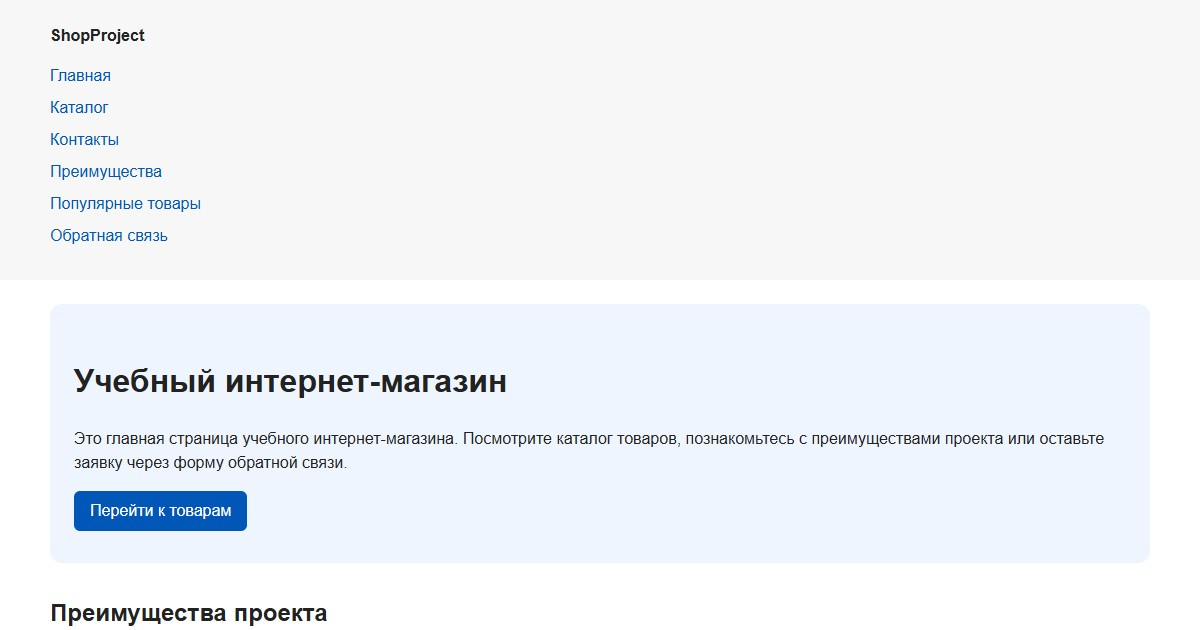
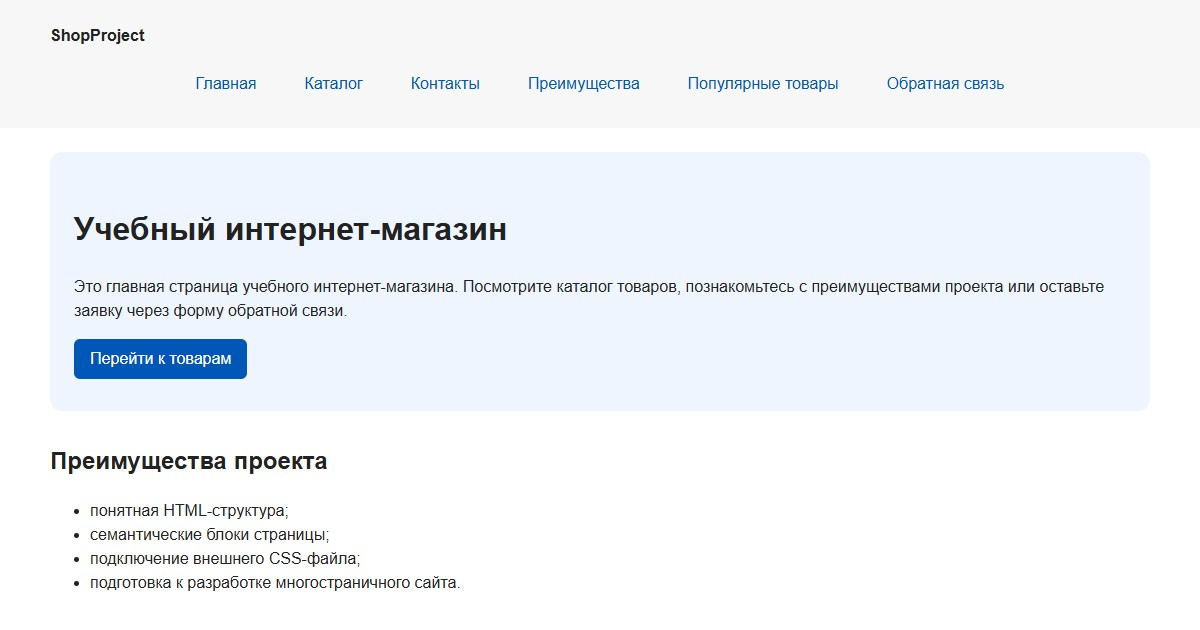
feat: add flex navigation and grid catalog layout

diff --git a/catalog.html b/catalog.html
@@ -41,34 +41,75 @@
       <h1>Каталог товаров</h1>
       <p>
         На этой странице представлен учебный каталог товаров.
-        В дальнейшем здесь будут добавлены фильтры, сортировка и более
-        подробные карточки.
+        Слева расположена учебная форма фильтров, справа — товары.
+        Работа фильтрации и сортировки будет реализована позднее.
       </p>
     </section>
 
-    <section class="section">
-      <h2>Список товаров</h2>
+    <section class="catalog-layout">
+      <aside class="catalog-filters">
+        <h2>Фильтры</h2>
 
-      <article class="product-card">
-        <h3>Товар 1</h3>
-        <p>Краткое описание учебного товара.</p>
-        <p>Цена: 1000 руб.</p>
-        <a class="button" href="index.html#popular">Подробнее</a>
-      </article>
+        <form class="filters-form" action="#" method="get">
+          <fieldset>
+            <legend>Категория</legend>
 
-      <article class="product-card">
-        <h3>Товар 2</h3>
-        <p>Краткое описание учебного товара.</p>
-        <p>Цена: 1500 руб.</p>
-        <a class="button" href="index.html#popular">Подробнее</a>
-      </article>
+            <label>
+              <input type="checkbox" name="category" value="all">
+              Все товары
+            </label>
 
-      <article class="product-card">
-        <h3>Товар 3</h3>
-        <p>Краткое описание учебного товара.</p>
-        <p>Цена: 2000 руб.</p>
-        <a class="button" href="index.html#popular">Подробнее</a>
-      </article>
+            <label>
+              <input type="checkbox" name="category" value="popular">
+              Популярные
+            </label>
+
+            <label>
+              <input type="checkbox" name="category" value="new">
+              Новинки
+            </label>
+          </fieldset>
+
+          <fieldset>
+            <legend>Цена</legend>
+
+            <label for="price-from">От</label>
+            <input id="price-from" name="price-from" type="number" min="0" placeholder="0">
+
+            <label for="price-to">До</label>
+            <input id="price-to" name="price-to" type="number" min="0" placeholder="5000">
+          </fieldset>
+
+          <button class="button" type="submit">Применить</button>
+        </form>
+      </aside>
+
+      <section class="catalog-products">
+        <h2>Список товаров</h2>
+
+        <div class="products-grid">
+          <article class="product-card">
+            <h3>Товар 1</h3>
+            <p>Краткое описание учебного товара.</p>
+            <p>Цена: 1000 руб.</p>
+            <a class="button" href="index.html#popular">Подробнее</a>
+          </article>
+
+          <article class="product-card">
+            <h3>Товар 2</h3>
+            <p>Краткое описание учебного товара.</p>
+            <p>Цена: 1500 руб.</p>
+            <a class="button" href="index.html#popular">Подробнее</a>
+          </article>
+
+          <article class="product-card">
+            <h3>Товар 3</h3>
+            <p>Краткое описание учебного товара.</p>
+            <p>Цена: 2000 руб.</p>
+            <a class="button" href="index.html#popular">Подробнее</a>
+          </article>
+        </div>
+      </section>
     </section>
   </main>
 

diff --git a/index.html b/index.html
@@ -58,39 +58,41 @@
     <section class="section" id="popular">
       <h2>Популярные товары</h2>
 
-      <article class="product-card">
-        <h3>Товар 1</h3>
-        <p>Краткое описание учебного товара.</p>
-        <p>Цена: 1000 руб.</p>
-        <button class="button product-card__button" type="button" data-product="Товар 1">
-          Заказать
-        </button>
-      </article>
+      <div class="products-grid">
+        <article class="product-card">
+          <h3>Товар 1</h3>
+          <p>Краткое описание учебного товара.</p>
+          <p>Цена: 1000 руб.</p>
+          <button class="button product-card__button" type="button" data-product="Товар 1">
+            Заказать
+          </button>
+        </article>
 
-      <article class="product-card">
-        <h3>Товар 2</h3>
-        <p>Краткое описание учебного товара.</p>
-        <p>Цена: 1500 руб.</p>
-        <button class="button product-card__button" type="button" data-product="Товар 2">
-          Заказать
-        </button>
-      </article>
+        <article class="product-card">
+          <h3>Товар 2</h3>
+          <p>Краткое описание учебного товара.</p>
+          <p>Цена: 1500 руб.</p>
+          <button class="button product-card__button" type="button" data-product="Товар 2">
+            Заказать
+          </button>
+        </article>
 
-      <article class="product-card">
-        <h3>Товар 3</h3>
-        <p>Краткое описание учебного товара.</p>
-        <p>Цена: 2000 руб.</p>
-        <button class="button product-card__button" type="button" data-product="Товар 3">
-          Заказать
-        </button>
-      </article>
+        <article class="product-card">
+          <h3>Товар 3</h3>
+          <p>Краткое описание учебного товара.</p>
+          <p>Цена: 2000 руб.</p>
+          <button class="button product-card__button" type="button" data-product="Товар 3">
+            Заказать
+          </button>
+        </article>
+      </div>
     </section>
 
     <aside class="aside-info">
       <h2>Информация для студентов</h2>
       <p>
         На следующих практических занятиях этот проект будет расширяться:
-        будут доработаны карточки товаров, добавлены Flex/Grid,
+        будут доработаны карточки товаров, добавлены
         БЭМ-структура и адаптивная версия сайта.
       </p>
     </aside>

diff --git a/css/style.css b/css/style.css
@@ -174,26 +174,39 @@ a:focus-visible {
 }
 
 .site-nav__list {
+  display: flex;
+  flex-wrap: wrap;
+  justify-content: center;
+  align-items: center;
+  gap: var(--space-md);
   padding: 0;
   margin: var(--space-md) 0 0;
   list-style: none;
 }
 
 .site-nav__list li {
-  margin-bottom: var(--space-sm);
+  margin: 0;
 }
 
 .site-nav__list a {
+  display: inline-block;
+  padding: var(--space-sm) var(--space-md);
+  color: var(--color-primary);
   text-decoration: none;
+  border-radius: var(--radius-sm);
 }
 
 .site-nav__list a:hover {
-  text-decoration: underline;
+  color: var(--color-white);
+  background-color: var(--color-primary);
 }
 
 
 .product-card {
-  margin-bottom: var(--space-md);
+  display: flex;
+  flex-direction: column;
+  gap: var(--space-sm);
+  margin-bottom: 0;
   padding: var(--space-md);
   border: 1px solid var(--color-border);
   border-radius: var(--radius-md);
@@ -204,8 +217,71 @@ a:focus-visible {
   border-color: var(--color-primary);
 }
 
-.product-card h3 {
-  margin-top: 0;
+.product-card h3,
+.product-card p {
+  margin: 0;
+}
+
+.products-grid {
+  display: grid;
+  grid-template-columns: repeat(3, 1fr);
+  gap: var(--space-lg);
+}
+
+.product-card .button {
+  margin-top: auto;
+  align-self: flex-start;
+}
+
+.catalog-layout {
+  max-width: var(--container-width);
+  margin: 0 auto var(--space-xl);
+  display: grid;
+  grid-template-columns: 260px 1fr;
+  grid-template-areas: "filters products";
+  gap: var(--space-lg);
+}
+
+.catalog-filters {
+  grid-area: filters;
+  padding: var(--space-md);
+  border: 1px solid var(--color-border);
+  border-radius: var(--radius-md);
+  background-color: var(--color-surface);
+}
+
+.catalog-products {
+  grid-area: products;
+}
+
+.filters-form {
+  display: grid;
+  gap: var(--space-md);
+}
+
+.filters-form fieldset {
+  min-width: 0;
+  margin: 0;
+  padding: var(--space-md);
+  border: 1px solid var(--color-border);
+  border-radius: var(--radius-sm);
+}
+
+.filters-form legend {
+  font-weight: 700;
+}
+
+.filters-form label {
+  display: block;
+  margin-bottom: var(--space-sm);
+}
+
+.filters-form input[type="number"] {
+  width: 100%;
+  padding: 8px 10px;
+  border: 1px solid var(--color-border);
+  border-radius: var(--radius-sm);
+  font: inherit;
 }
 
 .aside-info {

diff --git a/README.md b/README.md
@@ -31,7 +31,7 @@
 
 ## Текущий статус
 
-Создан многостраничный сайт: главная, каталог и контакты. Используются единое меню, якоря, хлебные крошки, форма заявки и общие стили. Работа №5 выполнена в ветке `feature/multi-page-navigation`.
+Создан многостраничный сайт: главная, каталог и контакты. Используются единое меню, якоря, хлебные крошки, форма заявки и общие стили. Меню и карточки используют Flexbox, сетка товаров и каталог — CSS Grid. Работа №6 выполнена в ветке `feature/flex-grid-navigation`.
 
 ## Ссылка на опубликованный проект
 
@@ -65,6 +65,7 @@ GitHub Pages: https://zhegly.github.io/front_backend_MIREA/
 - Практическая работа 3: добавлена форма заявки, модальное окно и базовая валидация.
 - Практическая работа 4: добавлены CSS-переменные, состояния интерфейса и упорядочена структура стилей.
 - Практическая работа 5: создана многостраничная структура сайта, добавлены единая навигация и якорные ссылки.
+- Практическая работа 6: добавлены Flexbox-навигация и Grid-раскладка карточек и каталога.
 
 Локальная папка проекта: `kr1-html-css-shop`. Репозиторий GitHub: [ZheglY/front_backend_MIREA](https://github.com/ZheglY/front_backend_MIREA).
 
@@ -101,3 +102,12 @@ GitHub Pages: https://zhegly.github.io/front_backend_MIREA/
 ## Навигация
 
 Меню одинаково на всех страницах. Ссылки на преимущества, популярные товары и обратную связь ведут к `index.html#advantages`, `index.html#popular` и `index.html#contacts`. Ссылка «Перейти к форме» на странице контактов приводит к кнопке открытия модального окна на главной. На внутренних страницах добавлены хлебные крошки. Контактные данные демонстрационные.
+
+## Использование Flexbox и Grid
+
+- Flexbox для основного меню: перенос, выравнивание по центру и gap.
+- Flexbox для внутренней структуры карточек: вертикальная раскладка и кнопка внизу.
+- CSS Grid для трёх равных колонок товаров с gap.
+- CSS Grid для каталога: колонка фильтров 260px и оставшееся пространство для товаров, области filters и products.
+
+Форма фильтров — учебная HTML-разметка. Кнопка «Применить» отправляет GET-параметры текущей странице; изменение списка товаров пока не реализуется. Раскладка рассчитана на широкий экран; медиазапросы и адаптивность будут добавлены в следующих работах.
